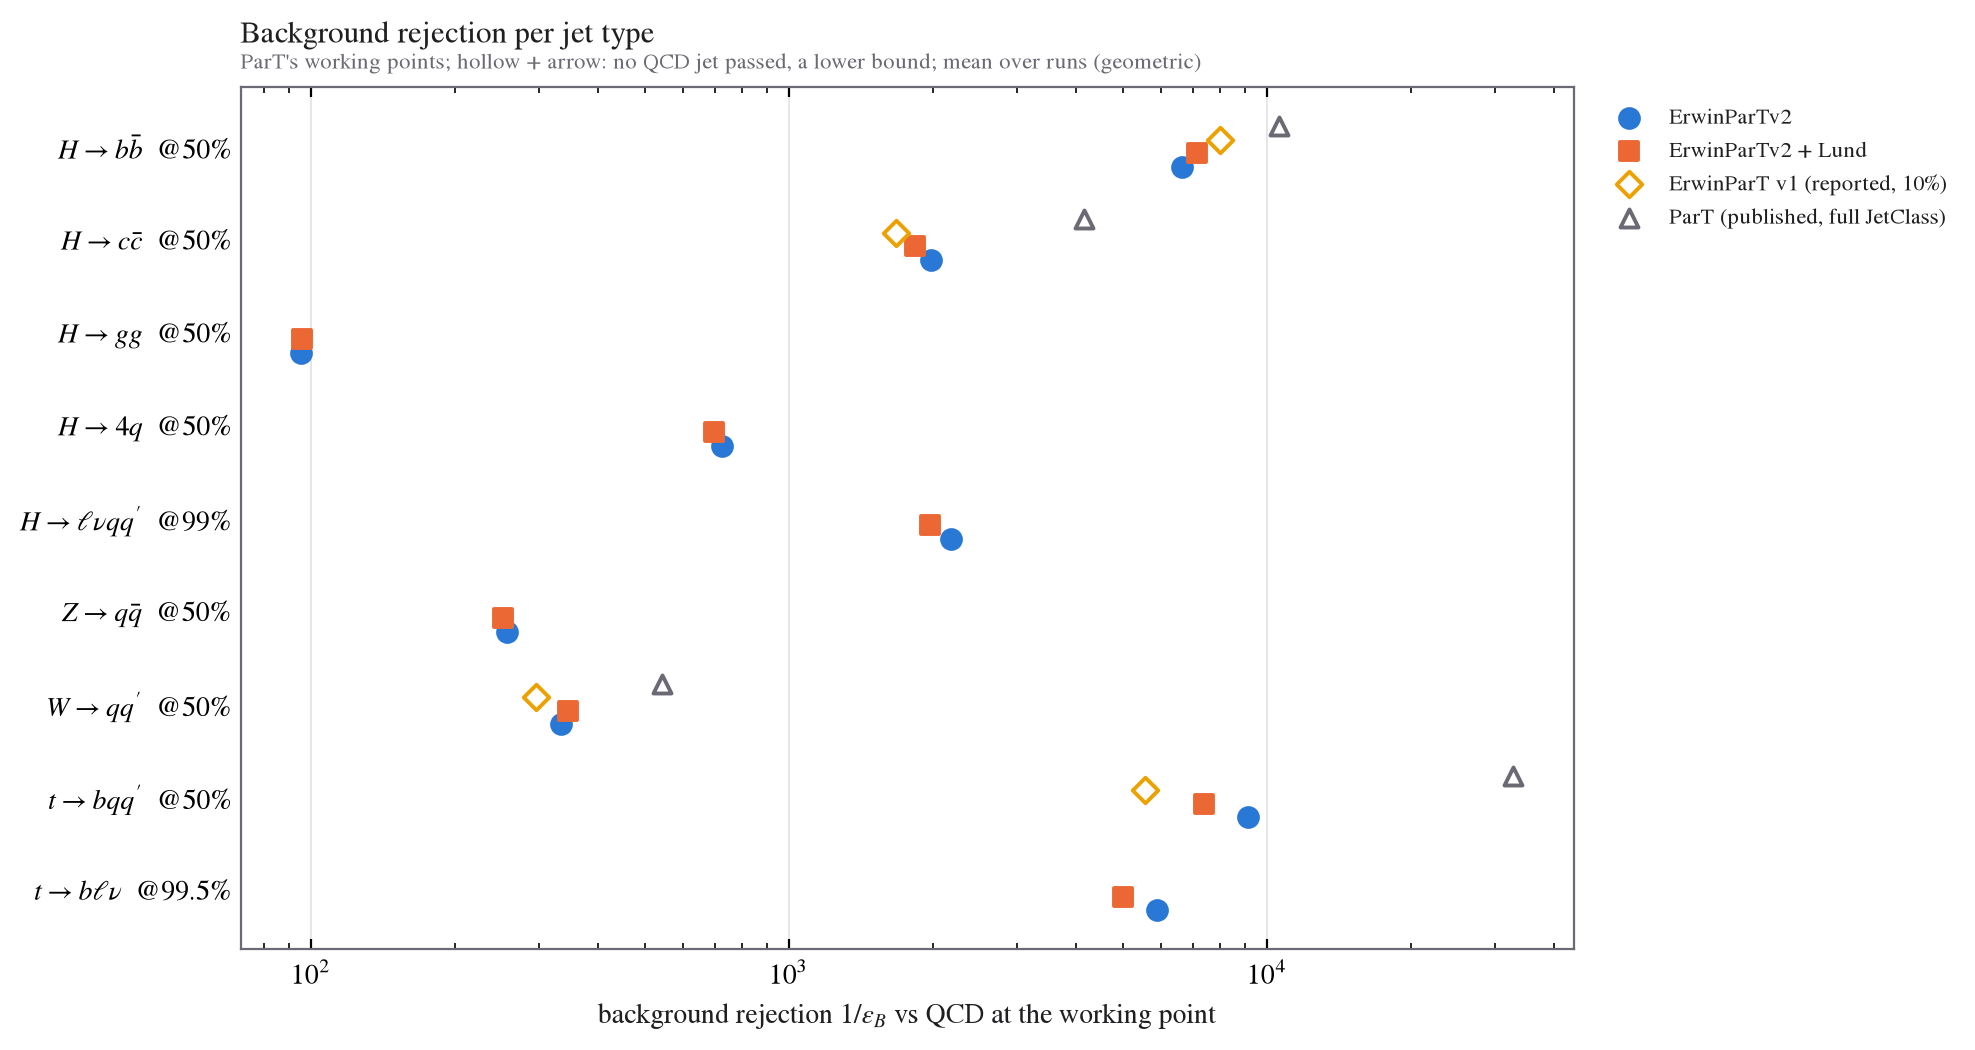
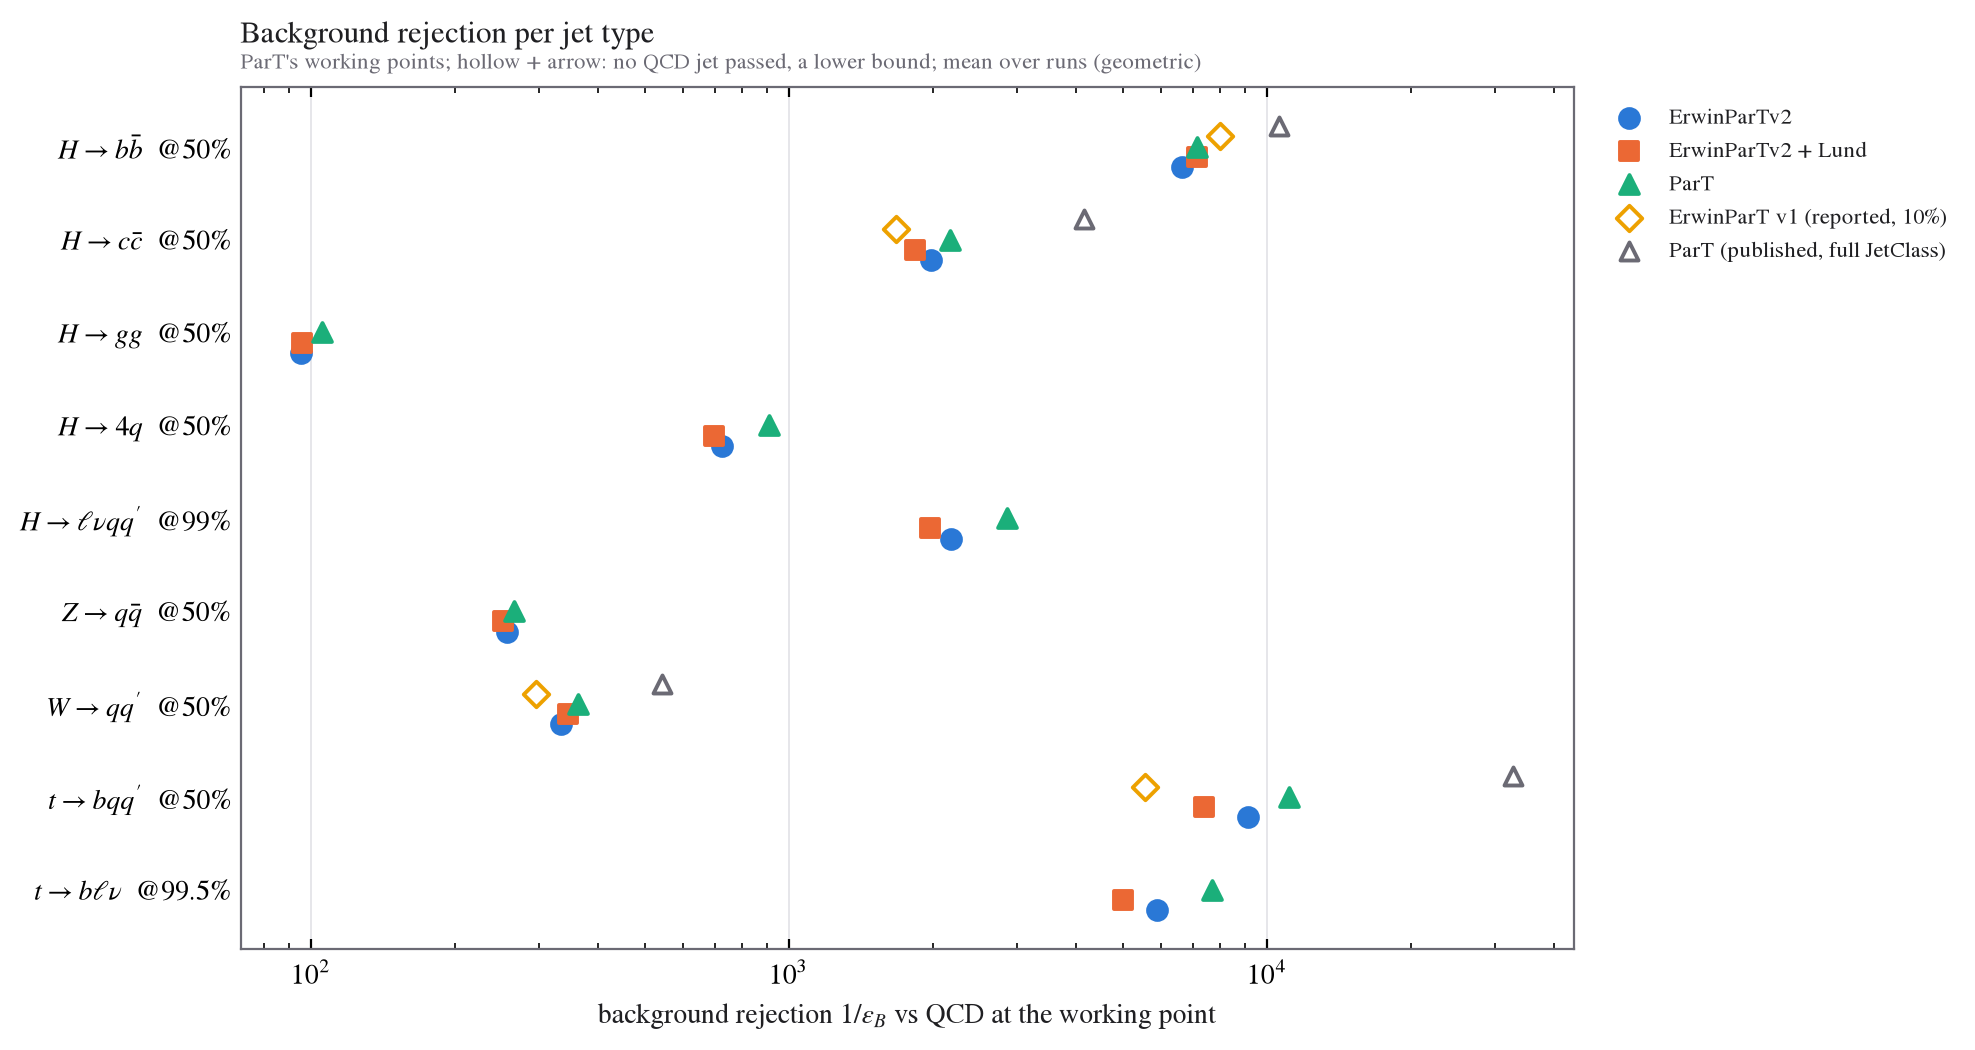
Add same-budget ParT to the cluster comparison; fix two plot bugs
ParT trained like the new models (10% of JetClass, 20 epochs; 2M test
jets): accuracy 0.8392, AUC 0.9843. ErwinParTv2 (2 runs) keeps 99.3% of
its accuracy (-0.61 points) and 99.9% of its AUC. Of the 2.8-point gap to
published ParT, 2.2 points are training budget and 0.6 architecture.

Per class, ErwinParTv2's rejection is 0.91-0.97x ParT's for H->bb, cc, gg,
W and Z, and 0.77-0.82x for H->4q, H->lvqq', t->bqq' and t->blv. The loss
does not follow truncation: H->gg loses 25% of jets to L = 64 yet keeps
0.91x, while the barely truncated lepton classes lose the most.
benchmark_comparison.md gains the ParT row, a per-class ratio table and
updated takeaways.

Fixes: a model with a single run was labelled by the last letter of its
tag ("ParT t"); and summary.csv's mean training time matched names by
prefix, so ErwinParTv2's (69 min) also averaged in the Lund run (93 min).

Claude-Session: https://claude.ai/code/session_01NYCsdky5RopyiTFLZWmxnj

diff --git a/tests/plot_cluster_comparison.py b/tests/plot_cluster_comparison.py
@@ -93,6 +93,12 @@ def load():
     return ev, runs, flops
 
 
+def run_label(tag):
+    """'v2-10pct-a' -> ' a'; a model with a single run ('part-10pct') gets none."""
+    last = tag.rsplit("-", 1)[-1]
+    return f" {last}" if len(last) == 1 else ""
+
+
 def mean_of(recs, f):
     return float(np.mean([f(r) for _, r in recs]))
 
@@ -108,7 +114,7 @@ def plot_roc(runs):
                 c = r["vs_qcd"][cls]
                 eff = np.array(c["eff"]); rej = np.array([np.nan if v is None else v for v in c["rej"]])
                 ax.plot(eff, rej, color=col, ls=RUN_STYLE[k], lw=1.5,
-                        label=f"{label} {tag[-1]}  AUC {c['auc']:.4f}")
+                        label=f"{label}{run_label(tag)}  AUC {c['auc']:.4f}")
                 n_bkg = c["n_bkg"]
         ax.axhline(n_bkg, color=MUTED, ls=":", lw=0.9)
         ax.text(0.03, n_bkg * 1.25, rf"$N_\mathrm{{QCD}}$ = {n_bkg:,}: no QCD jet passes above",
@@ -283,7 +289,7 @@ def plot_training_time(runs):
             tr = sum(e.get("train", 0) for e in ep.values())
             va = sum(e.get("val", 0) for e in ep.values())
             per = [e["train"] for e in ep.values() if "train" in e]
-            bars.append((f"{MODELS[key][0]} {tag[-1]}", MODELS[key][1], tr, va, per, len(ep)))
+            bars.append((f"{MODELS[key][0]}{run_label(tag)}", MODELS[key][1], tr, va, per, len(ep)))
     fig, axes = plt.subplots(1, 2, figsize=(10.5, 0.55 * len(bars) + 1.6), sharey=True,
                              gridspec_kw={"width_ratios": [1.2, 1]})
     y = np.arange(len(bars))[::-1]
@@ -419,7 +425,8 @@ def write_summary(runs, flops, rej, bars, trunc):
         if not recs:
             continue
         fl = flops[names[key]]
-        mins = [b[2] + b[3] for b in bars if b[0].startswith(MODELS[key][0] + " ")]
+        run_names = {MODELS[key][0] + run_label(t) for t, _ in recs}  # exact: "ErwinParTv2 a" is
+        mins = [b[2] + b[3] for b in bars if b[0] in run_names]       # not "ErwinParTv2 + Lund a"
         row = {"model": MODELS[key][0], "runs": len(recs),
                "accuracy": round(mean_of(recs, lambda r: r["accuracy"]), 4),
                "auc_macro": round(mean_of(recs, lambda r: r["auc_macro"]), 4),

diff --git a/plots/new_comparison_plots/benchmark_comparison.md b/plots/new_comparison_plots/benchmark_comparison.md
@@ -17,14 +17,15 @@ $s_i / (s_i + s_\mathrm{QCD})$ and ParT's working points.
 | *New models: 10% of JetClass, 20 epochs, 2M test jets* | | | | | | | | | | | |
 | **ErwinParTv2** (mean of 2 runs) | 0.8330 | 0.9833 | 6667 | 1983 | 96 | 725 | 2186 | 9129 | 5885 | 335 | 258 |
 | **ErwinParTv2 + Lund** (1 run) | 0.8325 | 0.9832 | 7143 | 1835 | 96 | 697 | 1980 | 7407 | 5000 | 345 | 253 |
+| **ParT, same budget** (1 run) | **0.8392** | **0.9843** | 7143 | 2174 | 106 | 909 | 2857 | 11111 | 7692 | 362 | 266 |
 
 **The rows above the divider are not directly comparable with the new models.**
 The new models trained on 10% of JetClass (about 1M jets per epoch) for 20 epochs,
 and were tested on 2M test jets: 10% of the 20M-jet test set. The rows for ParT, ParticleNet,
 P-CNN, PFN and ParT (plain) are as published for full JetClass, and the ErwinParT
 (v1) row is as previously reported. Part of the gap to ParT comes from the smaller
-training budget, not the architecture. The same-budget ParT run is still in progress
-(see [Pending](#pending)).
+training budget, not the architecture. The **ParT, same budget** row is the
+like-for-like comparison: ParT trained exactly as the new models were.
 
 The new models' rejections are geometric means over runs; accuracy and AUC are
 arithmetic means.
@@ -36,6 +37,25 @@ arithmetic means.
 | ErwinParTv2, run a | RTX 4090 | 0.8328 | 0.9833 | 6667 | 1887 | 96 | 712 | 2151 | 8333 | 5714 | 341 | 258 |
 | ErwinParTv2, run b | L40 | 0.8333 | 0.9834 | 6667 | 2083 | 95 | 738 | 2222 | 10000 | 6061 | 328 | 258 |
 | ErwinParTv2 + Lund, run a | L40 | 0.8325 | 0.9832 | 7143 | 1835 | 96 | 697 | 1980 | 7407 | 5000 | 345 | 253 |
+| ParT, same budget | mixed (last part RTX 3090) | 0.8392 | 0.9843 | 7143 | 2174 | 106 | 909 | 2857 | 11111 | 7692 | 362 | 266 |
+
+## ErwinParTv2 relative to ParT (same budget)
+
+Background rejection of ErwinParTv2 (mean of 2 runs) divided by ParT's:
+
+| H→bb̄ | H→cc̄ | H→gg | H→4q | H→ℓνqq′ | t→bqq′ | t→bℓν | W→qq′ | Z→qq̄ |
+| --- | --- | --- | --- | --- | --- | --- | --- | --- |
+| 0.93 | 0.91 | 0.91 | **0.80** | **0.77** | 0.82 | **0.77** | 0.93 | 0.97 |
+
+Overall, ErwinParTv2 keeps **99.3% of ParT's accuracy** (0.8330 against 0.8392,
+−0.61 points) and **99.9% of its AUC** (−0.0010).
+
+The losses don't follow truncation. H→gg loses 24.9% of its jets to the
+64-particle cap but keeps 91% of ParT's rejection. H→ℓνqq′ and t→bℓν are barely
+truncated (0.4% and 1.0%) but lose the most; both contain a lepton. The H→4q
+loss (±6% counting error) is clearly real. The ℓν classes carry ±10–17% errors,
+so their exact size is less certain. The ball-size sweep (see [Pending](#pending)) tests
+whether ball locality is the cause.
 
 ## Precision of the rejection values
 
@@ -82,6 +102,13 @@ H→gg (24.9% of jets) and t→bqq′ (13.8%), against about 1% for W→qq′ an
 
 ## Takeaways
 
+- **Against ParT trained the same way, ErwinParTv2 gives up 0.6 points of
+  accuracy and 0.001 of AUC** for 3.5× fewer FLOPs and 7.7× less peak activation
+  memory when deployed (`plots/fpga_tradeoff/`).
+- Of the 2.8-point gap to published ParT (0.861), 2.2 points come from the
+  smaller training budget (ParT itself reaches 0.839 here) and 0.6 from the
+  architecture.
+
 - **ErwinParTv2 improves on ErwinParT v1** in accuracy (0.833 against 0.825)
   and AUC (0.9833 against 0.9819), at two-thirds of v1's cost per jet and 3.5×
   less than ParT. Its 20 epochs are likely fewer than v1's: v1's checkpoints
@@ -95,8 +122,6 @@ H→gg (24.9% of jets) and t→bqq′ (13.8%), against about 1% for W→qq′ an
 
 These runs are queued on the NRP Nautilus cluster with the same 10%, 20-epoch setup:
 
-- **ParT**: the same-budget reference. It will show how much of the gap to
-  published ParT comes from the architecture rather than the training budget.
 - **ErwinParTv2 + Lund, run b**: the second Lund run.
 - **ErwinParTv2 with first-level ball sizes 16, 32 and 64**: whether ball locality
   costs accuracy. Size 64 makes the first level dense.
